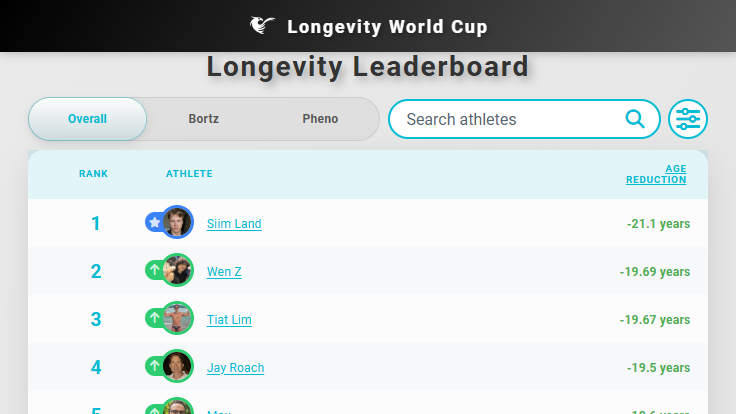
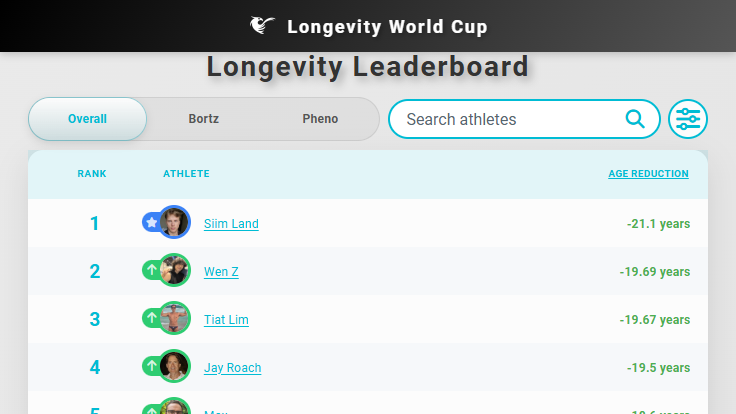
Keep age reduction header on one line

diff --git a/LongevityWorldCup.Website/wwwroot/partials/leaderboard-content.html b/LongevityWorldCup.Website/wwwroot/partials/leaderboard-content.html
@@ -1704,6 +1704,21 @@
             padding-right:.65rem;
         }
 
+        @media (min-width: 601px) and (max-width: 932px) and (max-height: 480px) and (orientation: landscape) {
+            .leaderboard table th:nth-child(4),
+            .leaderboard table td.age-reduction-td{
+                width:7.2rem;
+                min-width:7.2rem;
+            }
+
+            .leaderboard table th:nth-child(4) a{
+                white-space:nowrap;
+                letter-spacing:.02em;
+                padding-left:.1rem;
+                padding-right:.1rem;
+            }
+        }
+
         /* table portraits smaller on mobile */
         .leaderboard .portrait{ width:40px; height:40px; }
 
